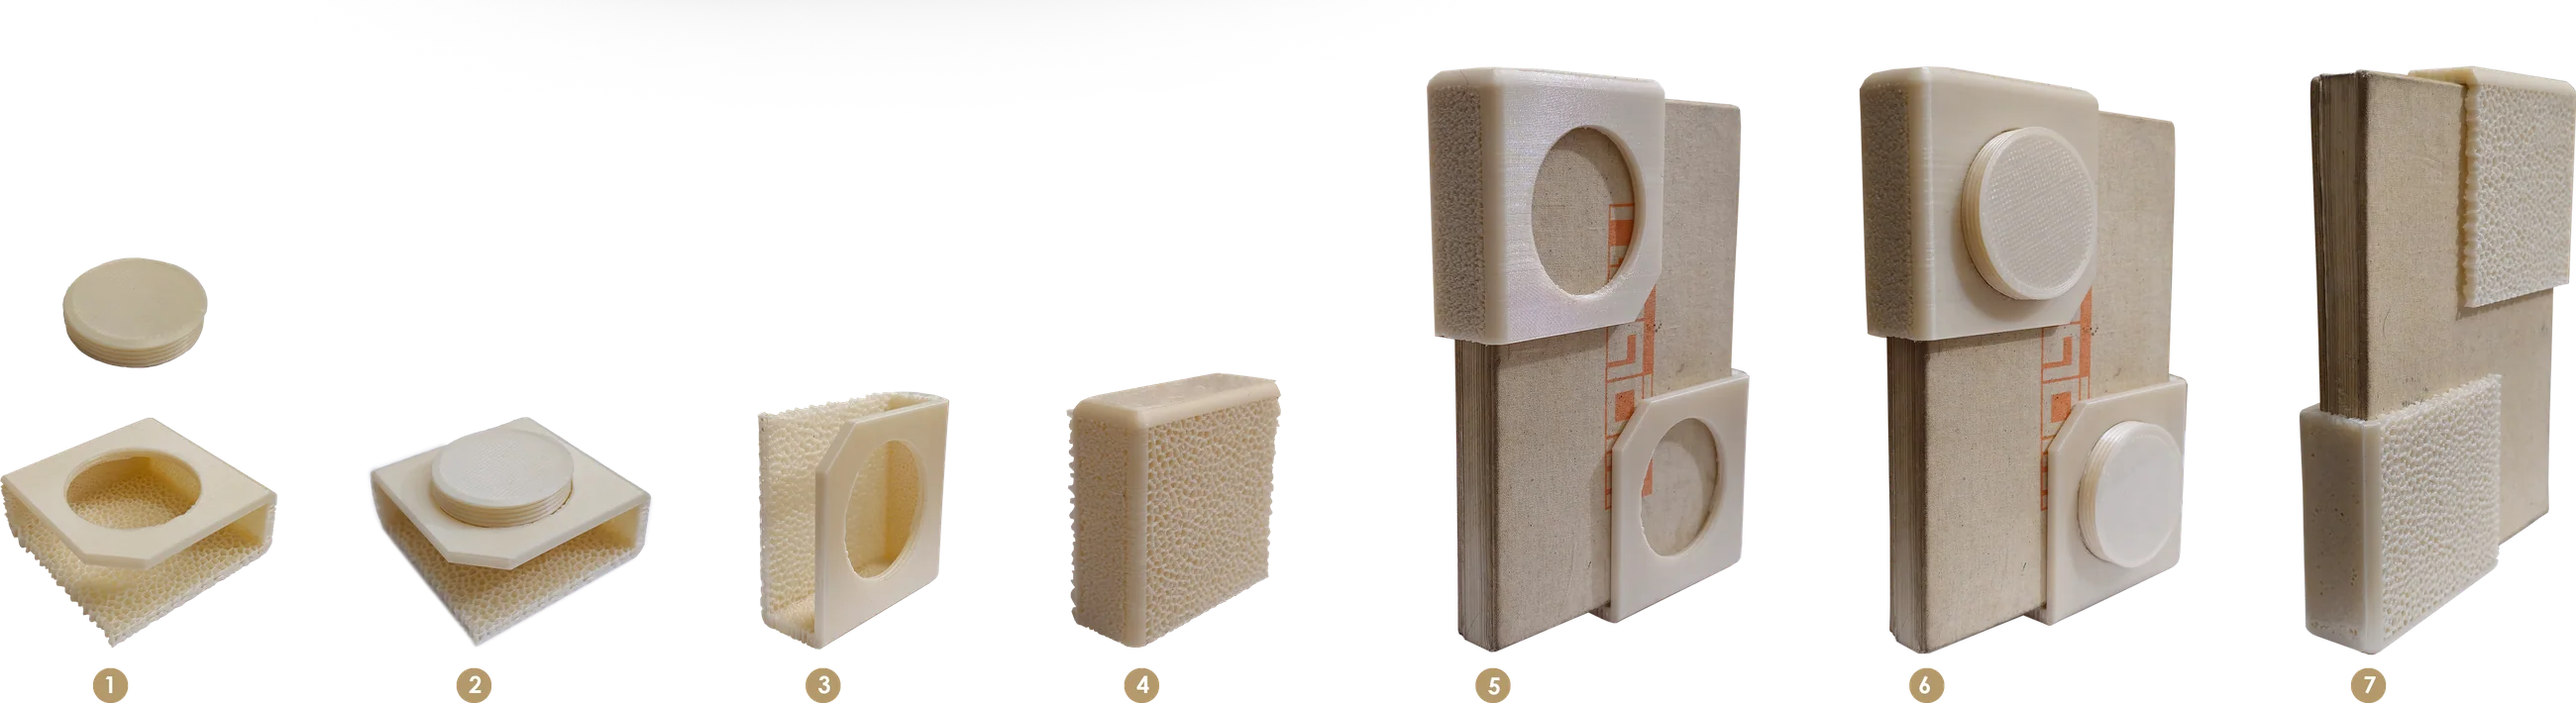
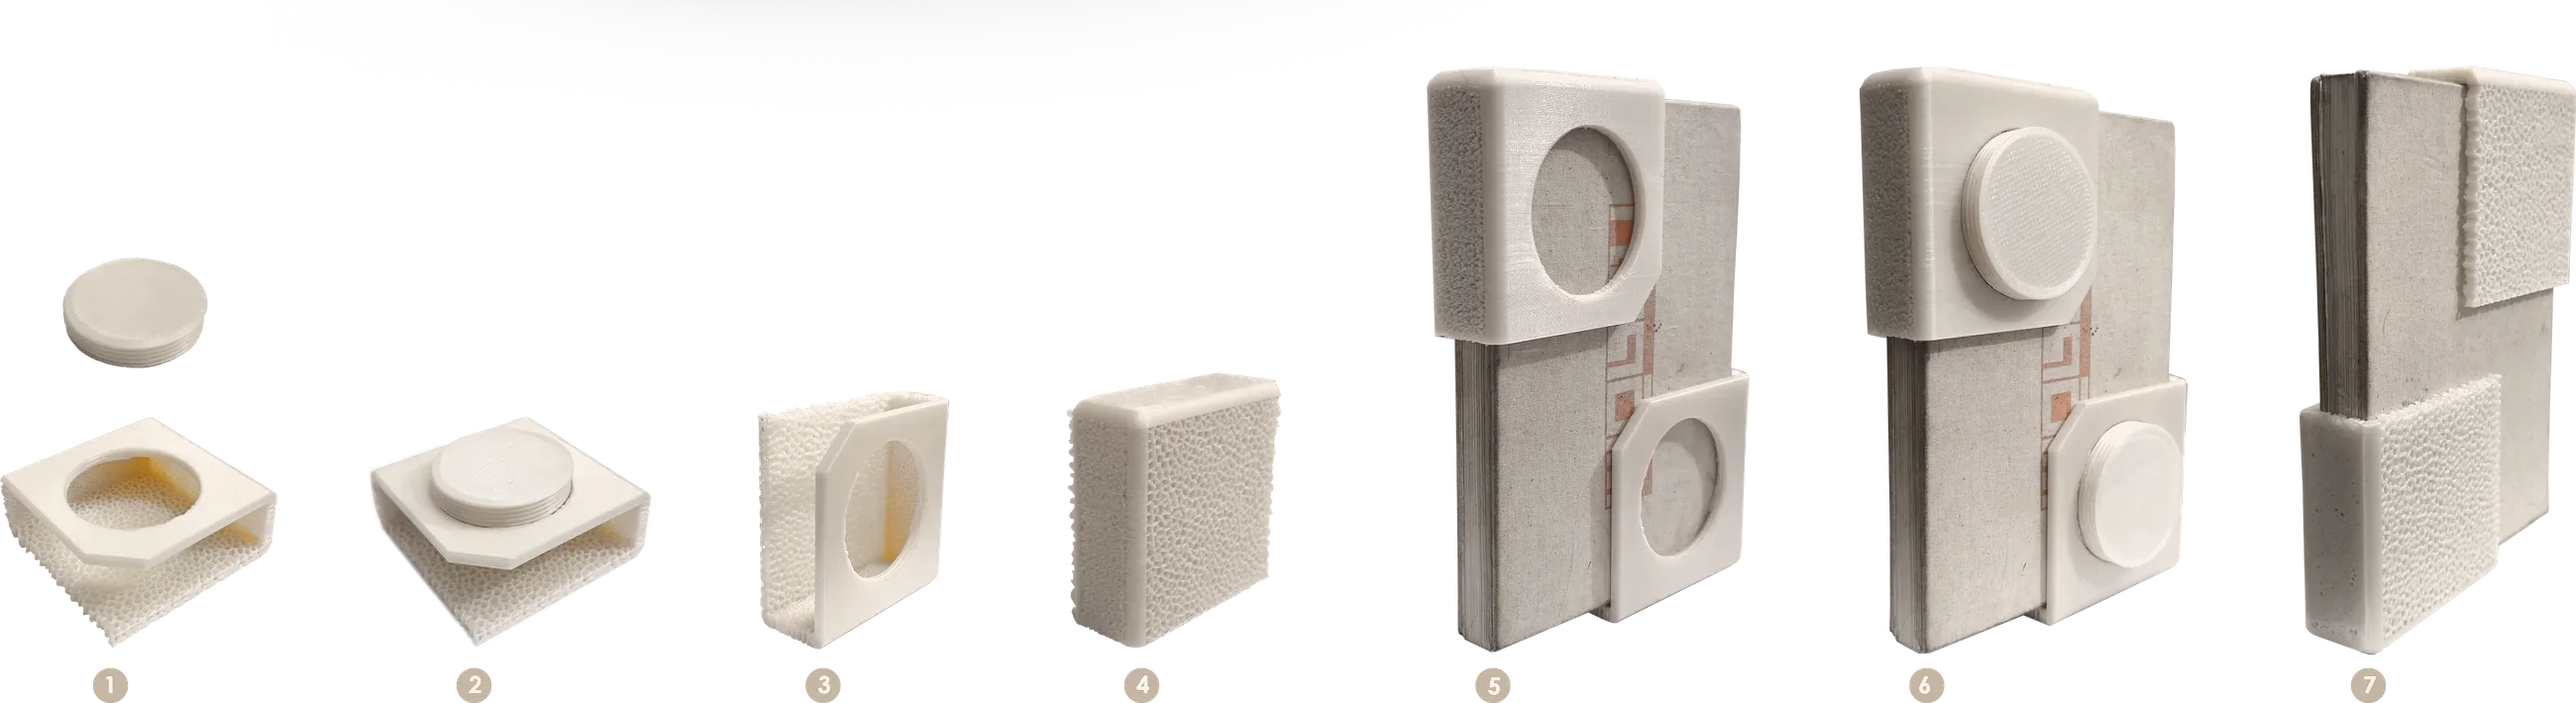
Sketchbook Corner Piece: render and photos matched to one clay white

diff --git a/index.html b/index.html
@@ -20,7 +20,7 @@
   <link rel="preconnect" href="https://fonts.googleapis.com">
   <link rel="preconnect" href="https://fonts.gstatic.com" crossorigin>
   <link rel="stylesheet" href="https://fonts.googleapis.com/css2?family=Archivo:wdth,wght@62..125,100..900&family=JetBrains+Mono:wght@400;500&display=swap">
-  <link rel="stylesheet" href="assets/style.css?v=4">
+  <link rel="stylesheet" href="assets/style.css?v=5">
 </head>
 <body>
   <header class="top">
@@ -161,6 +161,6 @@
   </footer>
 
   <div class="lb" hidden><img alt=""><button type="button" aria-label="Close">&#215;</button></div>
-  <script src="assets/site.js?v=4"></script>
+  <script src="assets/site.js?v=5"></script>
 </body>
 </html>

diff --git a/tools/clay_white.py b/tools/clay_white.py
@@ -1,0 +1,33 @@
+"""Bring the Sketchbook Corner Piece pictures to one clay white.
+
+The printed parts photograph yellowish and dim (aged filament look); the render is a cold
+paper white. Both are moved to the same white in CIELAB: L about 90 in the highlights,
+a slightly warm a 0.8, b 4.5. Strong colours (the orange print stripes) keep their hue.
+usage: python3 tools/clay_white.py photo|render <in.webp> <out.webp>
+"""
+import sys
+import numpy as np
+from PIL import Image
+from skimage import color
+
+TA, TB, TL = 0.8, 4.5, 90.0
+kind, src, dst = sys.argv[1:4]
+a = np.asarray(Image.open(src).convert("RGBA")).astype(float) / 255
+lab = color.rgb2lab(a[..., :3])
+L, A, B = lab[..., 0], lab[..., 1], lab[..., 2]
+if kind == "render":
+    # cold white: highlights down to the clay white, warmth growing with lightness
+    L2 = L * (TL / 94.5)
+    k = L2 / 100
+    A2, B2 = A + TA * k, B + TB * k
+else:
+    # yellow, dim photo: lift the light, take most of the yellow out of the filament
+    L2 = np.minimum(L * 1.16, 96)
+    chroma = np.hypot(A, B)
+    w = np.clip((chroma - 34) / 18, 0, 1)            # 0 filament (also its warm shadows), 1 strong colour (kept)
+    k = L2 / 100
+    A2 = w * A + (1 - w) * (A * 0.35 + TA * k)
+    B2 = w * B + (1 - w) * (B * 0.3 + TB * k * 0.9)
+rgb = np.clip(color.lab2rgb(np.dstack([L2, A2, B2])), 0, 1)
+out = np.dstack([rgb, a[..., 3]])
+Image.fromarray((out * 255).round().astype(np.uint8), "RGBA").save(dst, "WEBP", quality=84, method=6)

diff --git a/README.md b/README.md
@@ -11,3 +11,7 @@ The folders `Sentience/`, `parametric_screen/` and `book_corner_pcs/` hold the o
 Themes: Trace, Night and Clay, as on the works site, and the choice carries over from it. Images drawn for a black board with light labels have a second file, `name-light.webp`, with the labels and leader lines turned dark (shown in Trace and Clay; Night shows the original). The schematic carries `line-art` and is inverted on the light themes.
 
 Writing rule: no em dashes or en dashes; commas, semicolons, parentheses or periods.
+
+## Colour
+
+The Sketchbook Corner Piece render and photos share one clay white (CIELAB L about 90, a 0.8, b 4.5): `python3 tools/clay_white.py photo|render <in> <out>` (needs Pillow and scikit-image). Run it on the original export, not on a corrected copy.
